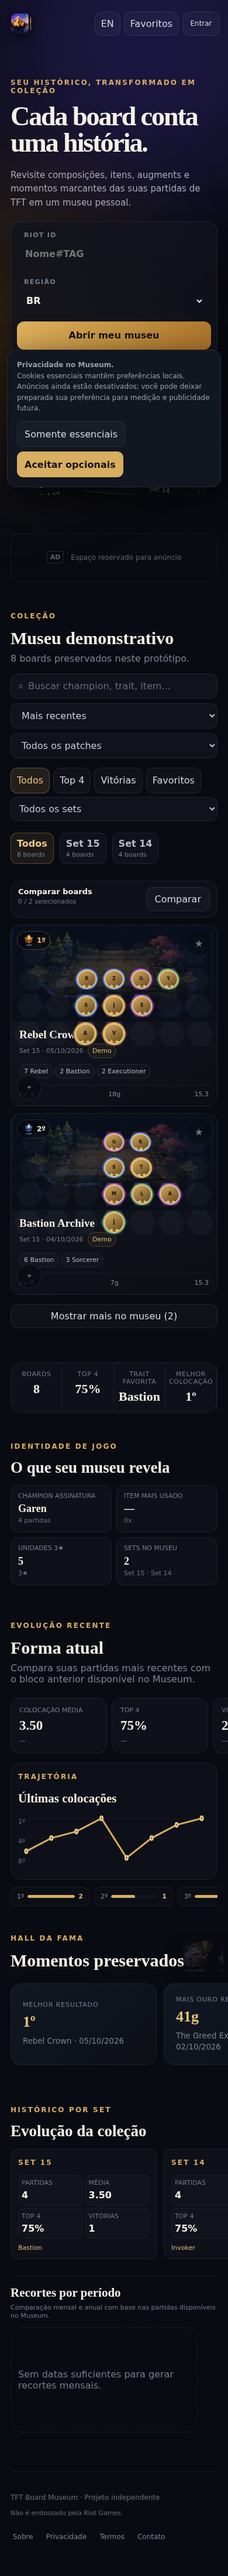
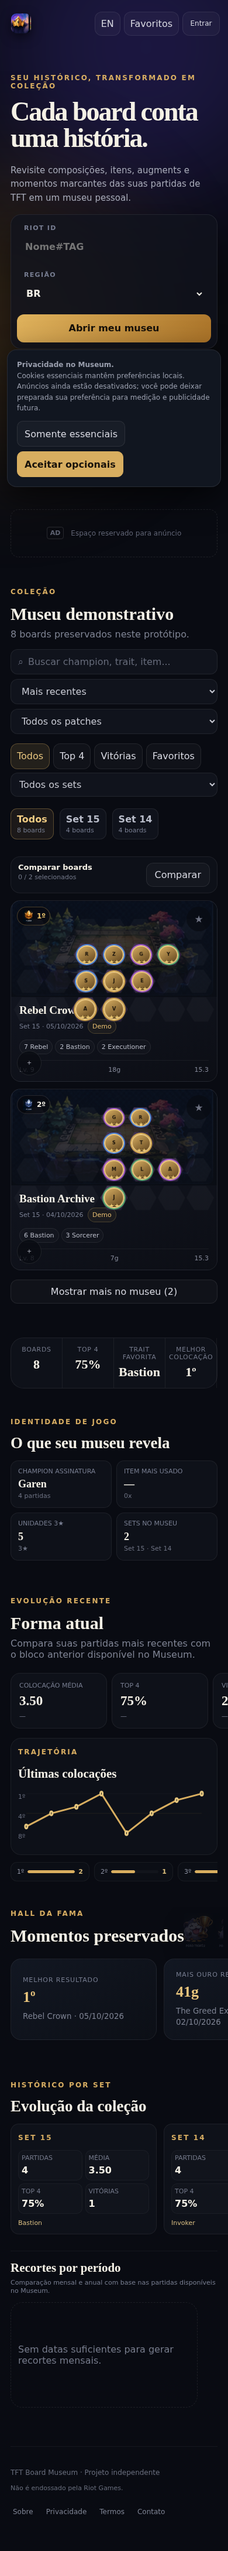
chore: update visual snapshots [skip ci]

diff --git a/screenshots/visual-audit.md b/screenshots/visual-audit.md
@@ -1,6 +1,6 @@
 # Visual audit
 
-Generated: 2026-10-06T18:18:13.065Z
+Generated: 2026-10-06T18:21:36.830Z
 
 ## desktop-full.png
 
@@ -33,7 +33,7 @@ Generated: 2026-10-06T18:18:13.065Z
 ## mobile-full.png
 
 - Viewport: 390×844
-- Page: 390×4399 (5.21 viewports tall)
+- Page: 390×4358 (5.16 viewports tall)
 - Boards rendered: 2
 - Overflow elements: 0
 - Horizontal scrollers: 4
@@ -46,17 +46,17 @@ Generated: 2026-10-06T18:18:13.065Z
 
 ### Sections
 - .topbar: top 0px · 390×80px
-- .hero: top 108px · 390×763px
+- .hero: top 108px · 390×722px
 - #profilePanel: top 0px · 0×0px
-- .ad-slot: top 911px · 354×82px
-- #museum: top 1041px · 390×1285px
-- .stats: top 2326px · 354×87px
-- #insights: top 2459px · 390×248px
-- #recentEvolution: top 2765px · 390×490px
-- #hallOfFame: top 3299px · 390×236px
-- #setHistory: top 3592px · 390×570px
+- .ad-slot: top 870px · 354×82px
+- #museum: top 1000px · 390×1285px
+- .stats: top 2285px · 354×87px
+- #insights: top 2418px · 390×248px
+- #recentEvolution: top 2724px · 390×490px
+- #hallOfFame: top 3258px · 390×236px
+- #setHistory: top 3551px · 390×570px
 - #cloudCollections: top 0px · 0×0px
-- footer: top 4220px · 354×179px
+- footer: top 4179px · 354×179px
 
 ## alchemyflames-desktop-full.png
 
@@ -89,7 +89,7 @@ Generated: 2026-10-06T18:18:13.065Z
 ## alchemyflames-mobile-full.png
 
 - Viewport: 390×844
-- Page: 390×4687 (5.55 viewports tall)
+- Page: 390×4646 (5.5 viewports tall)
 - Boards rendered: 2
 - Overflow elements: 0
 - Horizontal scrollers: 6
@@ -102,14 +102,14 @@ Generated: 2026-10-06T18:18:13.065Z
 
 ### Sections
 - .topbar: top 0px · 390×80px
-- .hero: top 108px · 390×763px
-- #profilePanel: top 911px · 354×240px
-- .ad-slot: top 1184px · 354×82px
-- #museum: top 1314px · 390×1404px
-- .stats: top 2718px · 354×87px
-- #insights: top 2851px · 390×248px
-- #recentEvolution: top 3157px · 390×490px
-- #hallOfFame: top 3691px · 390×236px
-- #setHistory: top 3985px · 390×465px
-- #cloudCollections: top 1314px · 0×0px
-- footer: top 4508px · 354×179px
+- .hero: top 108px · 390×722px
+- #profilePanel: top 870px · 354×240px
+- .ad-slot: top 1143px · 354×82px
+- #museum: top 1273px · 390×1404px
+- .stats: top 2677px · 354×87px
+- #insights: top 2810px · 390×248px
+- #recentEvolution: top 3116px · 390×490px
+- #hallOfFame: top 3650px · 390×236px
+- #setHistory: top 3944px · 390×465px
+- #cloudCollections: top 1273px · 0×0px
+- footer: top 4467px · 354×179px
